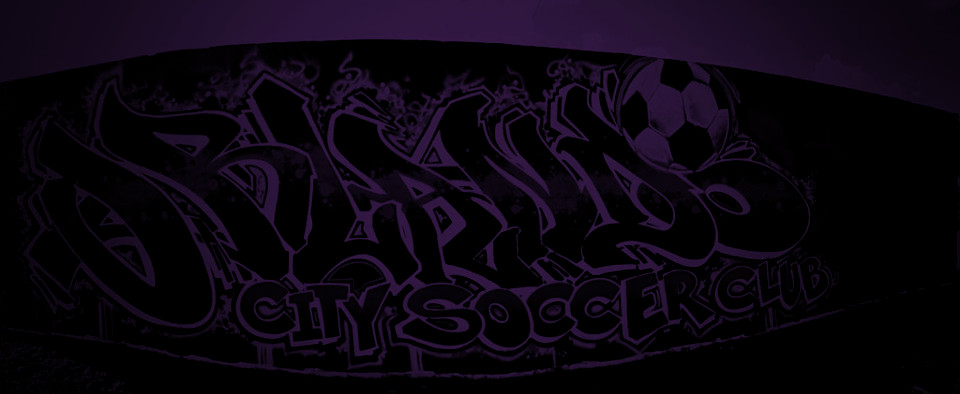
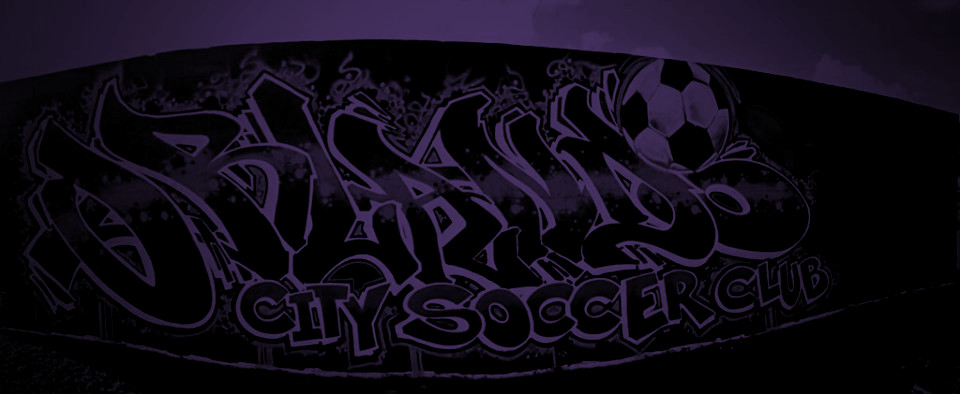
added contact page

diff --git a/contact.html b/contact.html
@@ -38,70 +38,66 @@
             </div>
             <div class="navbar-collapse collapse">
                 <ul class="nav navbar-nav navbar-right">
-                    <li class="active"><a href="index.html">Home</a></li>
+                    <li><a href="index.html">Home</a></li>
                     <li><a href="about.html">About</a></li>
-                    <li><a href="#works">Portfolio</a></li>
-                    <li><a href="contact.html">Contact</a></li>
+                    <li><a href="index.html#works">Portfolio</a></li>
+                    <li class="active"><a href="contact.html">Contact</a></li>
                 </ul>
             </div>
             <!--/.nav-collapse -->
         </div>
     </div>
-    <div id="headerwrap">
+    <div id="contactwrap">
         <div class="container">
             <div class="row">
                 <div class="col-lg-8 col-lg-offset-2">
-                    <h1>SEAN BEVARD</h1>
-                    <h4>YOUR FRIENDLY NEIGHBORHOOD WEB DEVELOPER & SOCCER FANATIC</h4>
+                    <h1>CONTACT</h1>
+                    <h4>USE THE FORM BELOW TO DROP ME A LINE</h4>
                 </div>
             </div>
             <! --/row -->
         </div>
         <!-- /container -->
-    </div>
-    <! --/headerwrap -->
-    <section id="works"></section>
-    <div class="container">
-        <div class="row centered mt mb">
-            <h1>My Portfolio</h1>
-            <div class="col-lg-4 col-md-4 col-sm-4 gallery">
-                <a href="work.html"><img src="assets/img/portfolio/folio01.png" class="img-responsive"></a>
-            </div>
-            <div class="col-lg-4 col-md-4 col-sm-4 gallery">
-                <a href="work.html"><img src="assets/img/portfolio/folio02.png" class="img-responsive"></a>
-            </div>
-            <div class="col-lg-4 col-md-4 col-sm-4 gallery">
-                <a href="work.html"><img src="assets/img/portfolio/folio03.png" class="img-responsive"></a>
-            </div>
-            <div class="col-lg-4 col-md-4 col-sm-4 gallery">
-                <a href="work.html"><img src="assets/img/portfolio/folio04.png" class="img-responsive"></a>
-            </div>
-            <div class="col-lg-4 col-md-4 col-sm-4 gallery">
-                <a href="work.html"><img src="assets/img/portfolio/folio05.png" class="img-responsive"></a>
-            </div>
-            <div class="col-lg-4 col-md-4 col-sm-4 gallery">
-                <a href="work.html"><img src="assets/img/portfolio/folio06.png" class="img-responsive"></a>
-            </div>
+    </div <div class="container">
+    <div class="row centered mt mb">
+        <div class="col-lg-12 col-lg-offset-0">
+                        <form action="https://formspree.io/seanbevard@gmail.com"
+                        method="POST">
+                            Name:
+                        <br>
+                            <input type="text" name="name" value="John Smith">
+                        <br>
+                            Email:
+                        <br>
+                            <input type="text" name="_replyto" value="example@gmail.com">
+                        <br>
+                            Message:
+                        <br>
+                            <textarea name="message">Say something!</textarea>
+                        <br>
+                            <input type="submit" value="Send">
+                    </form>
         </div>
-        <! --/row -->
+    </div>
+    <! --/row -->
     </div>
     <! --/container -->
     <div id="social">
         <div class="container">
-                <div class="row centered">
-                    <div class="col-lg-3">
-                        <a href="#"><i class="fa fa-twitter"></i></a>
-                    </div>
-                    <div class="col-lg-3">
-                        <a href="#"><i class="fa fa-linkedin"></i></a>
-                    </div>
-                    <div class="col-lg-3">
-                        <a href="#"><i class="fa fa-stack-overflow"></i></a>
-                    </div>
-                    <div class="col-lg-3">
-                        <a href="#"><i class="fa fa-github-alt"></i></a>
-                    </div>
+            <div class="row centered">
+                <div class="col-lg-3">
+                    <a href="#"><i class="fa fa-twitter"></i></a>
                 </div>
+                <div class="col-lg-3">
+                    <a href="#"><i class="fa fa-linkedin"></i></a>
+                </div>
+                <div class="col-lg-3">
+                    <a href="#"><i class="fa fa-stack-overflow"></i></a>
+                </div>
+                <div class="col-lg-3">
+                    <a href="#"><i class="fa fa-github-alt"></i></a>
+                </div>
+            </div>
             <! --/row -->
         </div>
         <! --/container -->

diff --git a/assets/css/style.css b/assets/css/style.css
@@ -17,13 +17,13 @@
 
 
 ::-moz-selection {
-    background: #5e299a;
+    background: #340865;
     color: #fff;
     text-shadow: none;
 }
 
 ::selection {
-    background: #5e299a;
+    background: #340865;
     color: #fff;
     text-shadow: none;
 }
@@ -62,7 +62,7 @@ body {
     font-family: 'Montserrat', sans-serif;
     font-weight: 400;
     font-size: 16px;
-	background-color: #f2f2f2;
+	background-color: #fff;
     -webkit-font-smoothing: antialiased;
     -webkit-overflow-scrolling: touch;
 }
@@ -74,12 +74,12 @@ h1, h2, h3, h4, h5, h6 {
 
 
 .navbar-brand {
-	font-weight: 800;
+	font-weight: 500;
 	font-size:1.2em;
 }
 
 .navbar-default .navbar-brand {
-	color: #fde192;
+	color: #E4B92E;
 }
 
 .navbar-default {
@@ -92,13 +92,13 @@ h1, h2, h3, h4, h5, h6 {
 }
 
 .navbar-default .navbar-nav > .active > a, .navbar-default .navbar-nav > .active > a:hover, .navbar-default .navbar-nav > .active > a:focus {
-	color: #fde192;
+	color: #E4B92E;
 	background-color: transparent;
-	border-bottom: 3px solid #fde192;
+	border-bottom: 3px solid #E4B92E;
 }
 
 .navbar-default .navbar-nav > li > a{
-	color:#fde192;
+	color:#E4B92E;
 	} .navbar-default .navbar-nav > li > a:hover{
 	color: #b98904;
 }
@@ -127,7 +127,7 @@ h1, h2, h3, h4, h5, h6 {
     background-size: cover;
 }
 
-#headerwrap h1, #aboutwrap h1 {
+#headerwrap h1, #aboutwrap h1, #contactwrap h1 {
 	color:#ffffff;
 	padding-top: 10px;
 	padding-bottom: 20px;
@@ -136,7 +136,7 @@ h1, h2, h3, h4, h5, h6 {
 	font-weight: bold;
 }
 
-#headerwrap h4, #aboutwrap h4 {
+#headerwrap h4, #aboutwrap h4, #contactwrap h4{
 	font-weight: 400;
 	color: #ffffff
 }
@@ -148,12 +148,12 @@ h1, h2, h3, h4, h5, h6 {
 }
 
 #social i {
-	font-size: 40px;
+	font-size: 75px;
 	color: #4a4a4a
 }
 
 #social i:hover {
-	color: #5e299a;
+	color: #340865;
 }
 
 #footerwrap {
@@ -169,7 +169,7 @@ h1, h2, h3, h4, h5, h6 {
 	color:#803ecc;
 }
 #footerwrap a:hover{
-	color:#5e299a;
+	color:#340865;
 }
 #workwrap {	
 	background: url(../img/work.jpg) no-repeat center top;
@@ -229,7 +229,26 @@ mark{
     -o-background-size: cover;
     background-size: cover;
 }
+#contactwrap {	
+	background: url(../img/email.jpg) no-repeat;
+	margin-top: -80px;
+	padding-top: 250px;
+	text-align:center;
+	background-attachment: relative;
+	background-position: center center;
+	min-height: 650px;
+	width: 100%;
+	
+    -webkit-background-size: 100%;
+    -moz-background-size: 100%;
+    -o-background-size: 100%;
+    background-size: 100%;
 
+    -webkit-background-size: cover;
+    -moz-background-size: cover;
+    -o-background-size: cover;
+    background-size: cover;
+}
 
 
 
@@ -241,3 +260,27 @@ mark{
 .gallery img:hover {
 	opacity: 0.4;
 }
+input[type=text], select, textarea{
+    width: 30%;
+    text-align:left;
+    color: #000000;
+    padding: 12px 20px;
+    margin: 8px 0;
+    display: inline-block;
+    border: 1px solid #ccc;
+    box-sizing: border-box;
+    resize: none;
+    font-family: inherit;
+}
+input[type=submit] {
+    width: 20%;
+    background-color: #340865;
+    color: white;
+    padding: 14px 20px;
+    margin: 8px 0;
+    border: none;
+    border-radius: 4px;
+    cursor: pointer;
+    font-family: inherit;
+    font-size: 25px;
+}	

diff --git a/work.html b/work.html
@@ -34,7 +34,7 @@
                     <span class="icon-bar"></span>
                     <span class="icon-bar"></span>
                 </button>
-                <a class="navbar-brand" href="index.html">My Portfolio</a>
+                <a class="navbar-brand" href="index.html">Sean Bevard</a>
             </div>
             <div class="navbar-collapse collapse">
                 <ul class="nav navbar-nav navbar-right">
@@ -77,26 +77,19 @@
         <! --/row -->
     </div>
     <! --/container -->
-    <div id="social">
-        <div class="container">
-            <div class="row centered">
-                <div class="col-lg-2">
-                    <div class="col-lg-2">
-                        <a href="#"><i class="fa fa-facebook"></i></a>
-                    </div>
-                    <div class="col-lg-2">
+        <div id="social">
+            <div class="container">
+                <div class="row centered">
+                    <div class="col-lg-3">
                         <a href="#"><i class="fa fa-twitter"></i></a>
                     </div>
-                    <div class="col-lg-2">
+                    <div class="col-lg-3">
                         <a href="#"><i class="fa fa-linkedin"></i></a>
                     </div>
-                    <div class="col-lg-2">
-                        <a href="#"><i class="fa fa-instagram"></i></a>
-                    </div>
-                    <div class="col-lg-2">
+                    <div class="col-lg-3">
                         <a href="#"><i class="fa fa-stack-overflow"></i></a>
                     </div>
-                    <div class="col-lg-2">
+                    <div class="col-lg-3">
                         <a href="#"><i class="fa fa-github-alt"></i></a>
                     </div>
                 </div>

diff --git a/about.html b/about.html
@@ -34,7 +34,7 @@
                     <span class="icon-bar"></span>
                     <span class="icon-bar"></span>
                 </button>
-                <a class="navbar-brand" href="index.html">My Portfolio</a>
+                <a class="navbar-brand" href="index.html">Sean Bevard</a>
             </div>
             <div class="navbar-collapse collapse">
                 <ul class="nav navbar-nav navbar-right">
@@ -74,22 +74,16 @@
     <div id="social">
         <div class="container">
             <div class="row centered">
-                <div class="col-lg-2">
-                    <a href="#"><i class="fa fa-facebook"></i></a>
-                </div>
-                <div class="col-lg-2">
+                <div class="col-lg-3">
                     <a href="#"><i class="fa fa-twitter"></i></a>
                 </div>
-                <div class="col-lg-2">
+                <div class="col-lg-3">
                     <a href="#"><i class="fa fa-linkedin"></i></a>
                 </div>
-                <div class="col-lg-2">
-                    <a href="#"><i class="fa fa-instagram"></i></a>
-                </div>
-                <div class="col-lg-2">
+                <div class="col-lg-3">
                     <a href="#"><i class="fa fa-stack-overflow"></i></a>
                 </div>
-                <div class="col-lg-2">
+                <div class="col-lg-3">
                     <a href="#"><i class="fa fa-github-alt"></i></a>
                 </div>
             </div>
